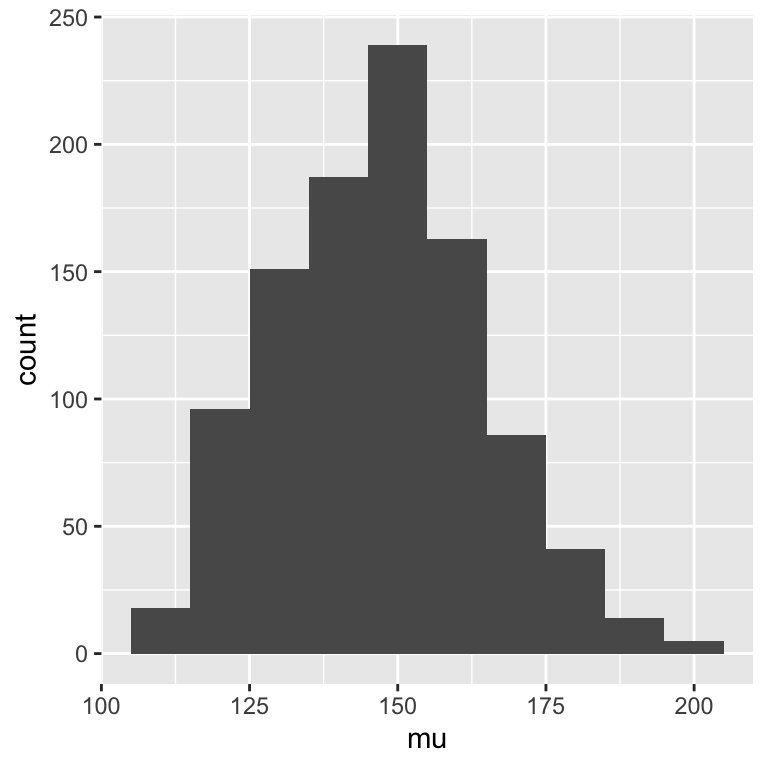
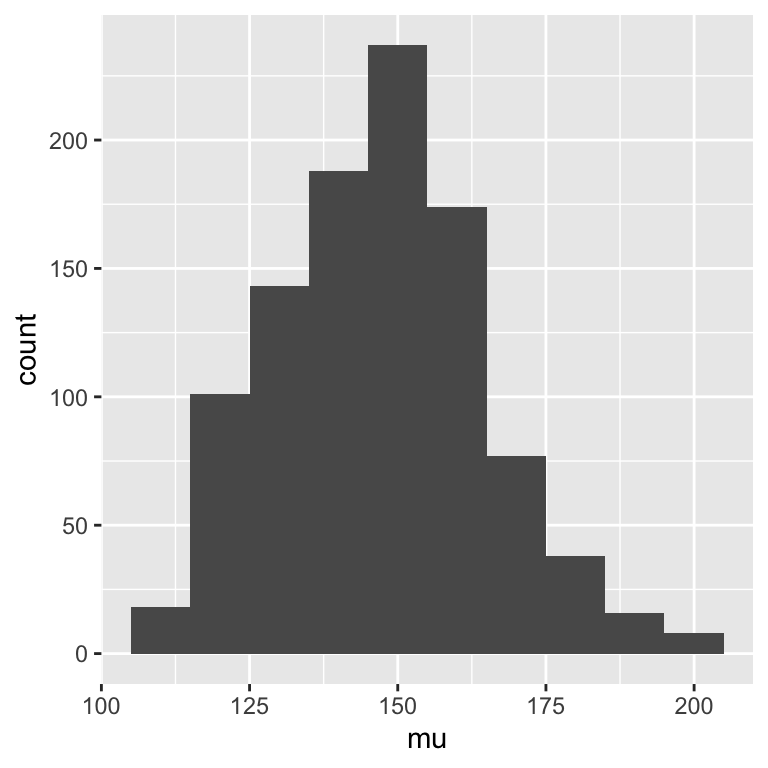
open lab 04

diff --git a/docs/slides/slides-bootstrap.html b/docs/slides/slides-bootstrap.html
@@ -460,11 +460,11 @@
 <span id="cb1-4"><a href="#cb1-4"></a>samp1 <span class="ot">&lt;-</span> <span class="fu">sample</span>(<span class="at">x =</span> dat, <span class="at">size =</span> n, <span class="at">replace =</span> T)</span>
 <span id="cb1-5"><a href="#cb1-5"></a>samp1</span></code><button title="Copy to Clipboard" class="code-copy-button"><i class="bi"></i></button></pre></div>
 <div class="cell-output cell-output-stdout">
-<pre><code>[1] 200 130 150 130</code></pre>
+<pre><code>[1] 200 110 150 200</code></pre>
 </div>
 </div>
 <ul>
-<li class="fragment">Obtain our first estimate for <span class="math inline">\(\mu\)</span>, the population mean daily caffeine consumption in adults: <span class="math inline">\(\hat{\mu}_{1} = 152.5\)</span></li>
+<li class="fragment">Obtain our first estimate for <span class="math inline">\(\mu\)</span>, the population mean daily caffeine consumption in adults: <span class="math inline">\(\hat{\mu}_{1} = 165\)</span></li>
 </ul>
 </section>
 <section id="example-cont." class="slide level2">
@@ -476,11 +476,11 @@
 <div class="sourceCode cell-code" id="cb3"><pre class="sourceCode numberSource r number-lines code-with-copy"><code class="sourceCode r"><span id="cb3-1"><a href="#cb3-1"></a>samp2 <span class="ot">&lt;-</span> <span class="fu">sample</span>(<span class="at">x =</span> dat, <span class="at">size =</span> n, <span class="at">replace =</span> T)</span>
 <span id="cb3-2"><a href="#cb3-2"></a>samp2</span></code><button title="Copy to Clipboard" class="code-copy-button"><i class="bi"></i></button></pre></div>
 <div class="cell-output cell-output-stdout">
-<pre><code>[1] 150 150 130 110</code></pre>
+<pre><code>[1] 200 200 130 130</code></pre>
 </div>
 </div>
 <ul>
-<li class="fragment"><p><span class="math inline">\(\hat{\mu}_{2} = 135\)</span></p></li>
+<li class="fragment"><p><span class="math inline">\(\hat{\mu}_{2} = 165\)</span></p></li>
 <li class="fragment"><p>Repeat this process thousands of times!</p></li>
 <li class="fragment"><p>…</p></li>
 </ul>
@@ -502,11 +502,12 @@
 </div>
 </div>
 <ul>
-<li class="fragment"><p>Mean over all estimates is <span class="math inline">\(\hat{\mu} = 148.2525\)</span></p></li>
+<li class="fragment"><p>Mean over all estimates is <span class="math inline">\(\hat{\mu} = 148.2725\)</span></p></li>
 <li class="fragment"><p>Approximate 95% confidence interval for the mean are the 5% and 95% quantiles of the 1000 mean estimates: (120, 182.5)</p>
 <ul>
 <li class="fragment">Called a <em>bootstrap percentile</em> confidence interval</li>
 </ul></li>
+<li class="fragment"><p>2/3</p></li>
 </ul>
 </section>
 <section id="bootstrap-pros-and-cons" class="slide level2">

diff --git a/docs/schedule.html b/docs/schedule.html
@@ -295,7 +295,7 @@ ul.task-list li input[type="checkbox"] {
 <td style="text-align: center;">F 03/17</td>
 <td>NO CLASS</td>
 <td>Work on Lab 04!</td>
-<td>Lab 04</td>
+<td><a href="./labs/lab-04-regression-trees.html">Lab 04: forest fires</a></td>
 <td>03/30 11:59pm</td>
 </tr>
 <tr class="odd">
@@ -318,14 +318,15 @@ ul.task-list li input[type="checkbox"] {
 </tr>
 <tr class="odd">
 <td style="text-align: center;">T 03/28</td>
-<td>Bootstrap</td>
+<td><p>Bootstrap +</p>
+<p>Project introduction</p></td>
 <td></td>
 <td></td>
 <td></td>
 </tr>
 <tr class="even">
 <td style="text-align: center;">R 03/30</td>
-<td>Bootstrap (cont.)</td>
+<td>Bagging</td>
 <td></td>
 <td></td>
 <td></td>
@@ -336,6 +337,66 @@ ul.task-list li input[type="checkbox"] {
 <td></td>
 <td>Midterm: computational assignment</td>
 <td>04/02 11:59pm</td>
+</tr>
+<tr class="even">
+<td style="text-align: center;"></td>
+<td></td>
+<td><div class="important">
+<p>WEEK 7</p>
+</div></td>
+<td></td>
+<td></td>
+</tr>
+<tr class="odd">
+<td style="text-align: center;">T 04/04</td>
+<td></td>
+<td></td>
+<td></td>
+<td></td>
+</tr>
+<tr class="even">
+<td style="text-align: center;">R 04/06</td>
+<td></td>
+<td></td>
+<td></td>
+<td></td>
+</tr>
+<tr class="odd">
+<td style="text-align: center;">F 04/07</td>
+<td></td>
+<td></td>
+<td></td>
+<td></td>
+</tr>
+<tr class="even">
+<td style="text-align: center;"></td>
+<td></td>
+<td><div class="important">
+<p>WEEK 8</p>
+</div></td>
+<td></td>
+<td></td>
+</tr>
+<tr class="odd">
+<td style="text-align: center;">T 04/11</td>
+<td></td>
+<td></td>
+<td></td>
+<td></td>
+</tr>
+<tr class="even">
+<td style="text-align: center;">R 04/13</td>
+<td></td>
+<td></td>
+<td></td>
+<td></td>
+</tr>
+<tr class="odd">
+<td style="text-align: center;">F 04/14</td>
+<td>NO CLASS</td>
+<td>Spring symposium</td>
+<td></td>
+<td></td>
 </tr>
 </tbody>
 </table>

diff --git a/docs/assignments.html b/docs/assignments.html
@@ -432,6 +432,20 @@ Ski resorts
 </div>
 </a>
 </div>
+<div class="g-col-1" data-index="3" data-listing-file-modified-sort="1679151737154" data-listing-reading-time-sort="7.165">
+<a href="./labs/lab-04-regression-trees.html" class="quarto-grid-link">
+<div class="quarto-grid-item card h-100 card-left">
+<div class="card-body post-contents">
+<h5 class="no-anchor card-title listing-title">
+Lab 04: Regression trees
+</h5>
+<div class="card-text listing-description">
+Forest fires
+</div>
+</div>
+</div>
+</a>
+</div>
 </div>
 <div class="listing-no-matching d-none">
 No matching items

diff --git a/docs/labs/lab-04-regression-trees.html b/docs/labs/lab-04-regression-trees.html
@@ -263,7 +263,7 @@ Commit reminder
 
 </div>
 <div style="color: maroon">
-<p>Display a <code>summary()</code> of your regression tree. How many leaves are there? Was your intuition correct about whether or not <code>drought</code> would be an important predictor for the log burned <code>area`</code>?</p>
+<p>Display a <code>summary()</code> of your regression tree. How many leaves are there? Was your intuition correct about whether or not <code>drought</code> would be an important predictor for the log burned <code>area</code>?</p>
 </div>
 <div class="cell">
 
